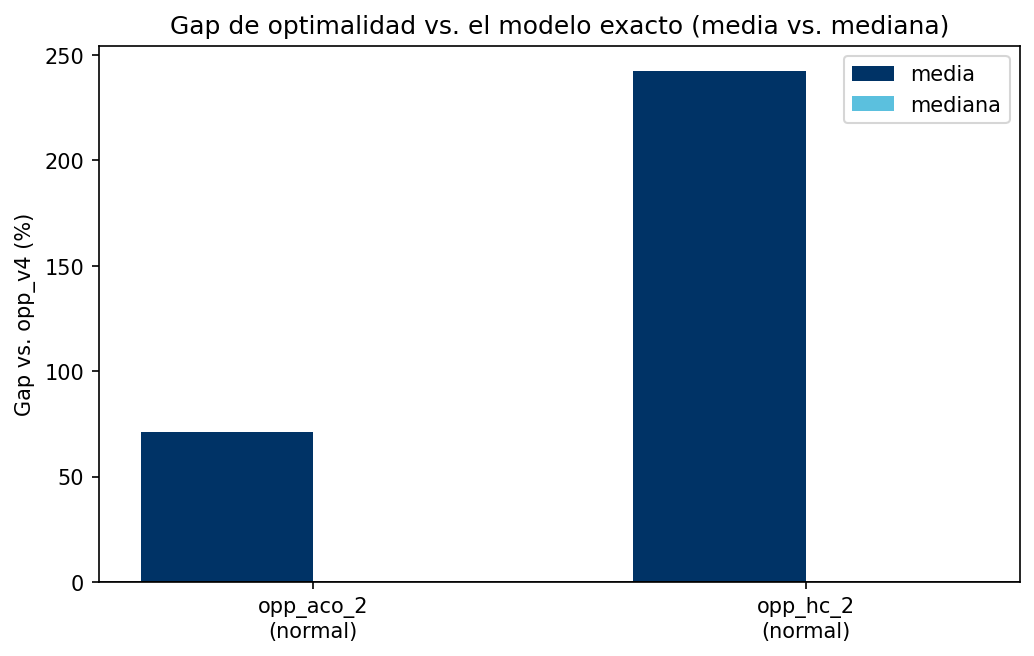
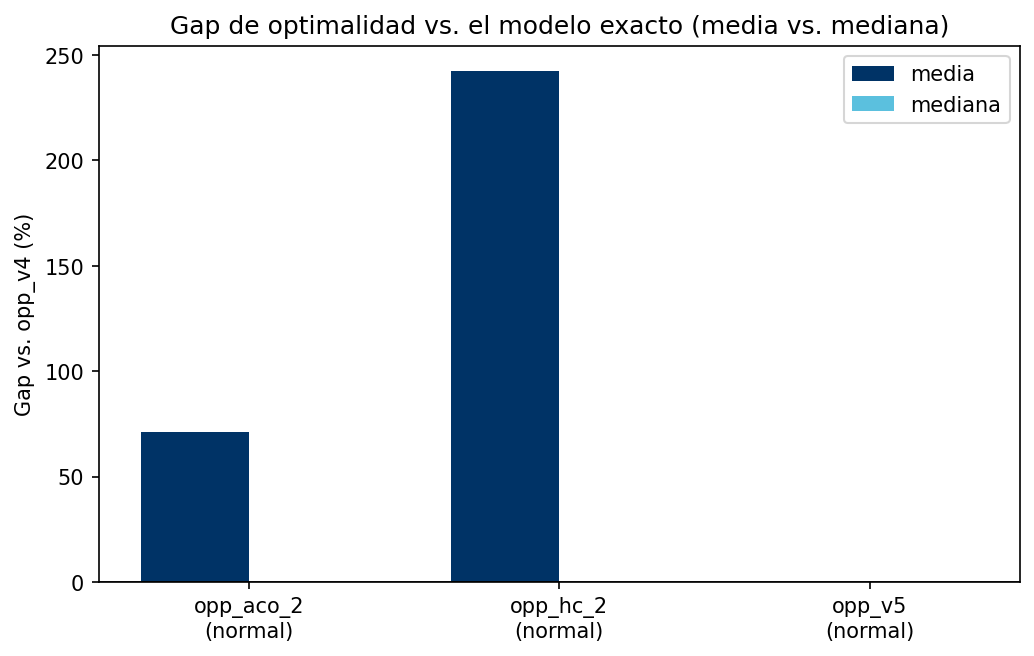
Add opp_v5 to analysis

diff --git a/analysis/config.py b/analysis/config.py
@@ -9,6 +9,15 @@ opp_v3 / opp_hc / opp_aco) to the current model lineup:
 - opp_aco_2 : ACO, parallel pickers, no congestion
 - opp_hc_3  : Hill Climbing, congestion-aware
 - opp_aco_3 : ACO, congestion-aware, multi-pheromone
+- opp_v5    : exact model, 2-stage decomposition (routing then scheduling),
+              no congestion -- migrated normal/stress tests neutralize its
+              two extra features (heterogeneous picker speed, cold-chain
+              limit) via tests/opp_v5/tests/v4_compat.py, so those rows
+              solve the same problem as opp_v4/opp_hc_2/opp_aco_2. Kept
+              OUT of CONGESTION_AWARE_MODELS and NOT set as EXACT_MODEL
+              (still opp_v4) -- it's compared AGAINST opp_v4, not used to
+              replace it, until the 2-stage decomposition's optimality is
+              independently confirmed.
 
 Each entry maps a short label -> the directory name under tests/outputs/.
 Add/remove entries here as models evolve; nothing else in the pipeline
@@ -28,6 +37,7 @@ MODEL_DIRS = {
     "opp_aco_2": "opp_aco_2",
     "opp_hc_3": "opp_hc_3",
     "opp_aco_3": "opp_aco_3",
+    "opp_v5": "opp_v5",
 }
 
 SCENARIOS = ["normal", "stress"]

diff --git a/analysis/output/report.md b/analysis/output/report.md
@@ -14,6 +14,8 @@
 | opp_hc_3 | stress | 20 | 17 | 3 | 0 | 85.0 |
 | opp_v4 | normal | 44 | 43 | 1 | 0 | 97.7 |
 | opp_v4 | stress | 8 | 1 | 7 | 0 | 12.5 |
+| opp_v5 | normal | 28 | 28 | 0 | 0 | 100.0 |
+| opp_v5 | stress | 3 | 0 | 3 | 0 | 0.0 |
 
 ## 2. Tiempo de ejecución (solo casos OK)
 
@@ -29,6 +31,7 @@
 | opp_hc_3 | stress | 4.956314185086419 | 6.819183207581754 | 22.079998254776 | 17 |
 | opp_v4 | normal | 2.5023141295410865 | 7.092974958272934 | 29.40972781181335 | 43 |
 | opp_v4 | stress | 0.1135659217834472 | nan | 0.1135659217834472 | 1 |
+| opp_v5 | normal | 0.2469221098082406 | 0.16591122132280145 | 0.8291668891906738 | 28 |
 
 ## 3. Profiling del modelo exacto (opp_v4)
 
@@ -43,6 +46,7 @@
 | --- | --- | --- | --- | --- | --- | --- |
 | opp_aco_2 | normal | 71.22773178525641 | 0.0 | 199.87217644020114 | 472.0 | 9 |
 | opp_hc_2 | normal | 242.22025794370185 | 0.0 | 533.1439832436165 | 1180.0 | 9 |
+| opp_v5 | normal | 2.6808142170028874e-11 | 0.0 | 8.542402665284963e-11 | 2.9070243674830897e-10 | 22 |
 
 ## 5. Congestión (opp_hc_3 / opp_aco_3 vs. sus baselines v2)
 
@@ -60,6 +64,7 @@
 | opp_hc_3 | stress | 1.125 | 2.4186773244895647 | 6.0 | 16 | True |
 | opp_v4 | normal | nan | nan | nan | 0 | False |
 | opp_v4 | stress | nan | nan | nan | 0 | False |
+| opp_v5 | normal | nan | nan | nan | 0 | False |
 
 ### 5.2 Sobrecosto de tiempo por modelar congestión
 
@@ -81,6 +86,7 @@
 | opp_hc_2 | 0.5505 | 0.7019 | 0.2855 | 0.5819 | 0.2203 | -0.1631 | 78 |
 | opp_hc_3 | 0.2439 | 0.314 | 0.0174 | 0.5458 | 0.2783 | -0.152 | 20 |
 | opp_v4 | 0.7512 | 0.4409 | 0.9152 | -0.0178 | 0.4444 | -0.387 | 23 |
+| opp_v5 | 0.7871 | 0.4704 | 0.9045 | -0.0459 | 0.4477 | -0.4292 | 22 |
 
 ### 6.2 Nivel escenario
 
@@ -95,6 +101,7 @@
 | opp_hc_3 | normal | 0.9629 | 0.9629 | nan | 0.9629 | nan | -0.9629 | 3 |
 | opp_hc_3 | stress | 0.1684 | 0.2321 | -0.1067 | 0.4888 | nan | nan | 17 |
 | opp_v4 | normal | 0.843 | 0.4845 | 0.9182 | -0.0086 | 0.4887 | -0.4204 | 22 |
+| opp_v5 | normal | 0.7871 | 0.4704 | 0.9045 | -0.0459 | 0.4477 | -0.4292 | 22 |
 
 ## Gráficos generados
 
